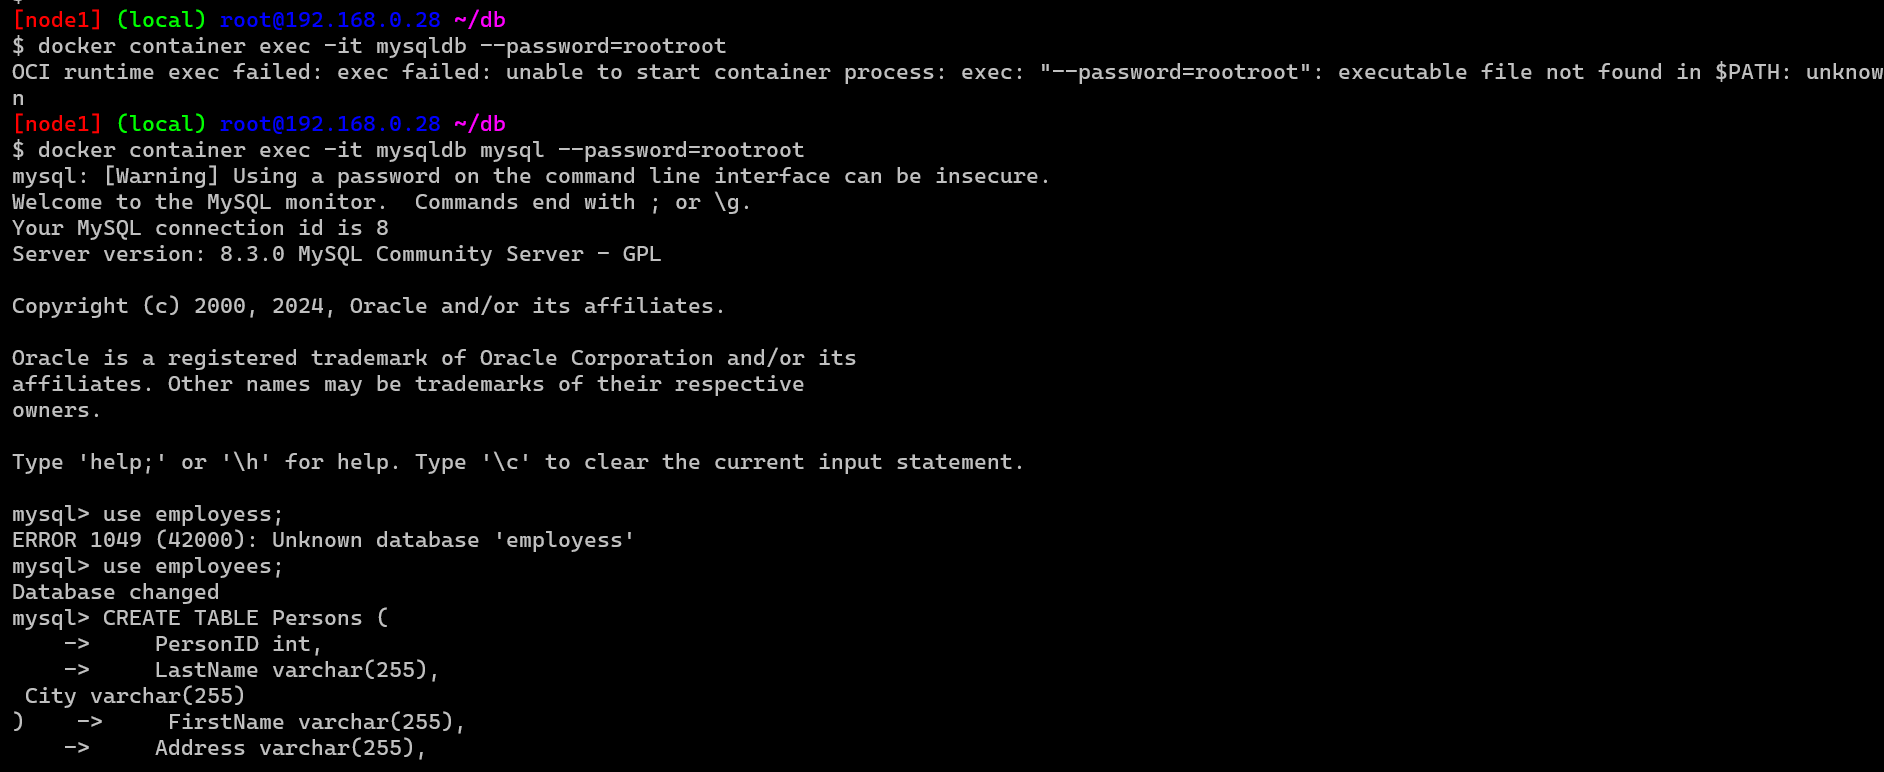
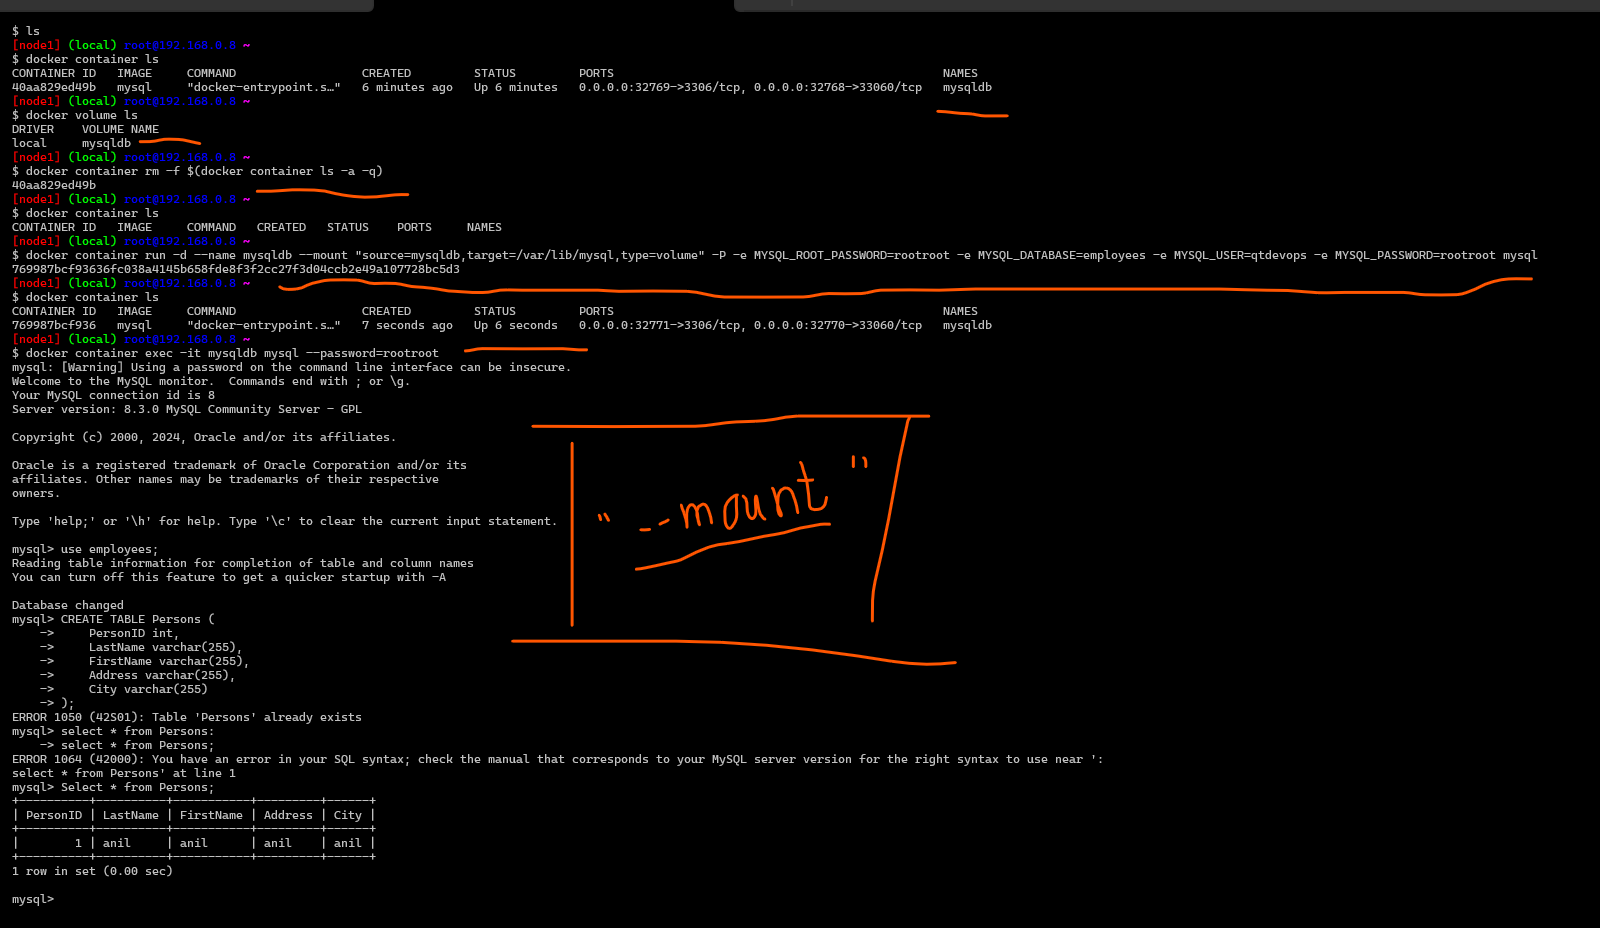
changes

diff --git a/15evening.md b/15evening.md
@@ -7,14 +7,39 @@
 * Lets mount a volume using `-v` Refer Here:https://docs.docker.com/storage/volumes/#start-a-container-with-a-volume for official docs
 * Create a mysql container
 * `docker container run -d --name mysqldb -v mysqldb:/var/lib/mysql -P -e MYSQL_ROOT_PASSWORD=rootroot -e MYSQL_DATABASE=employees -e MYSQL_USER=qtdevops -e MYSQL_PASSWORD=rootroot mysql`
-![preview](images/165.png)
+
 * Lets create some data and then delete the container 
-![preview](images/166.png)
-![preview](images/167.png)
-![preview](images/168.png)
-* Now create a new container using mount
+![preview](images/165.png)
+
+* Now create a new container using mount `--mount`
 * `docker container run -d --name mysqldb --mount "source=mysqldb,target=/var/lib/mysql,type=volume" -P -e MYSQL_ROOT_PASSWORD=rootroot -e MYSQL_DATABASE=employees -e MYSQL_USER=qtdevops -e MYSQL_PASSWORD=rootroot mysql`
-* 
-![preview](images
-![preview](images
+
+![preview](images/166.png)
+
+```
+docker volume ls
+docker container ls
+$ docker container exec -it mysqldb mysql --password=rootroot
+
+```
+
+```
+ use players;
+ CREATE TABLE Persons (
+    ->     PersonID int,
+    ->     LastName varchar(255),
+    ->     FirstName varchar(255),
+    ->     Address varchar(255),
+    ->     City varchar(255)
+    -> );
+
+```
+```
+Insert into Persons values (1, 'anil','anil','anil','anil');
+select * from Persons;
+
+```
+
+
+
 
